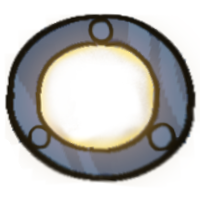
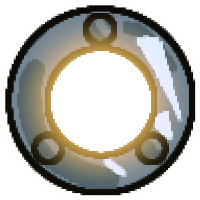
lights added for jellyfish

diff --git a/Coursework/CMP105App/JellyScene.cpp b/Coursework/CMP105App/JellyScene.cpp
@@ -12,6 +12,23 @@ JellyScene::JellyScene(sf::RenderTarget* hwnd) : BaseLevel(hwnd)
 
 	BaseLevel::loadLevel("levels/jelly3.json");
 
+	for (int i = 0; i < lighter.getLightPos().size(); i++) {
+		if (i == doorLightI) { break; }
+		PhysicsObject* newLight = new PhysicsObject(sf::Vector2f{lighter.getLightPos().at(i)}, sf::Vector2f{75.f,75.f}, 10.f);
+		sf::CircleShape c = sf::CircleShape(spotlight.getSize().x * 0.3f);
+		sf::ConvexShape lightShape = sf::ConvexShape(c.getPointCount());
+		for (int i = 0; i < c.getPointCount(); i++)
+		{
+			lightShape.setPoint(i, c.getPoint(i));
+		}
+		newLight->setCollisionShape(lightShape);
+		newLight->setFillColor(sf::Color::White);
+		newLight->setTexture(spotlightTexture);
+		newLight->setDrawType(drawType::RECT);
+		spotlights.push_back(newLight);
+		physMan.registerObj(spotlights.back(), true);
+	}
+
 	commander.addPressed(sf::Keyboard::N, new GenericCommand([=] {player.damage(0.5f); }));
 	commander.addPressed(sf::Keyboard::M, new GenericCommand([=] {player.restoreHealth(); }));
 }
@@ -77,6 +94,10 @@ void JellyScene::render()
 	lighter.draw(&player);
 
 	lighter.endDraw();
+
+	for (auto& s : spotlights) {
+		window->draw(*s);
+	}
 
 	// HUD
 	window->setView(window->getDefaultView());

diff --git a/Coursework/CMP105App/Framework/DeferredIllumination.h b/Coursework/CMP105App/Framework/DeferredIllumination.h
@@ -52,6 +52,8 @@ public:
 	void setAmbientColour(const sf::Color& ambient);
 	void setAmbientLight(float const& strength); //0-1 darkness value
 
+	std::vector<sf::Vector2f> getLightPos() { return lightPos; };
+
 	GLuint uploadSegmentTex(const std::vector<sf::Glsl::Vec4>& edges);
 private:
 	//not exactly memory efficient, every object drawn without a state will reserve ~8 bytes of unused memory

diff --git a/Coursework/CMP105App/Player.cpp b/Coursework/CMP105App/Player.cpp
@@ -204,7 +204,7 @@ void Player::dodge()
 						(sf::Vector2f(0, -1) * (float)Input::isKeyDown(sf::Keyboard::W)) +
 						(sf::Vector2f(-1, 0) * (float)Input::isKeyDown(sf::Keyboard::A)) +
 						(sf::Vector2f(1, 0) * (float)Input::isKeyDown(sf::Keyboard::D));
-	accelerate(dir, (speed * speed * 0.7f));
+	accelerate(dir, (speed * speed * 0.5f));
 	lastAction = Action::DODGE;
 }
 

diff --git a/Coursework/CMP105App/Main.cpp b/Coursework/CMP105App/Main.cpp
@@ -16,7 +16,7 @@
 #include "BaseEnemyTestScene.h"
 
 #ifndef FORCE_EDITOR
-#define FORCE_EDITOR true
+#define FORCE_EDITOR false
 #endif // !FORCE_EDITOR
 
 int main(int argc, char *argv[])

diff --git a/Coursework/CMP105App/JellyScene.h b/Coursework/CMP105App/JellyScene.h
@@ -17,5 +17,6 @@ public:
 
 private:
 
+	std::vector<PhysicsObject*> spotlights;
 
 };
